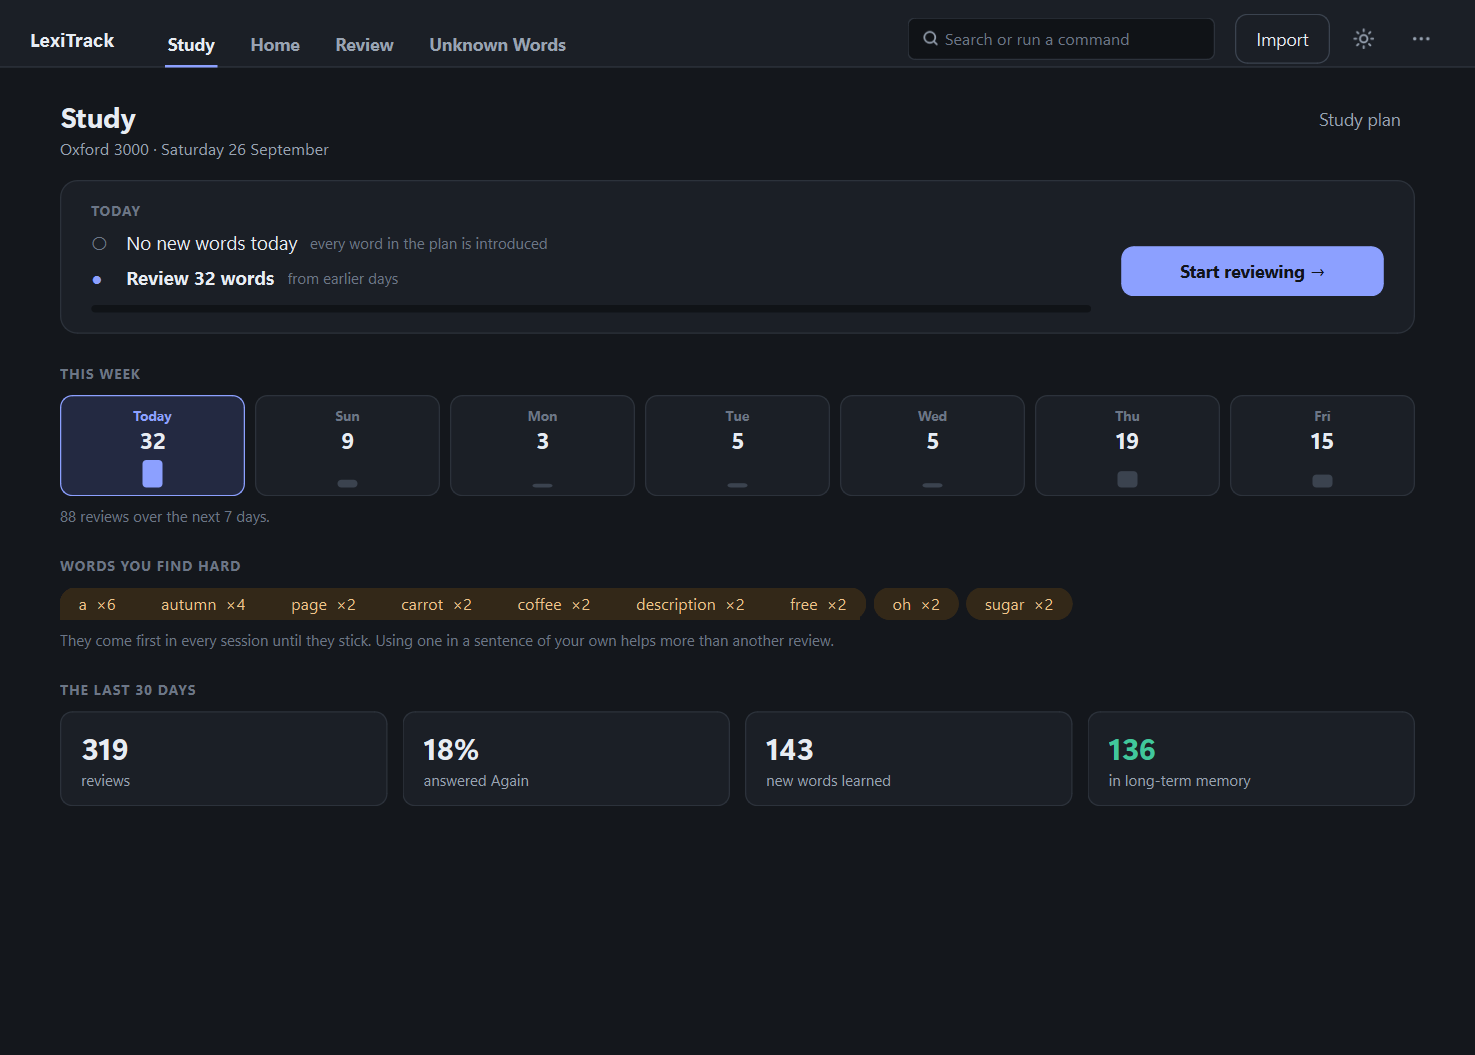
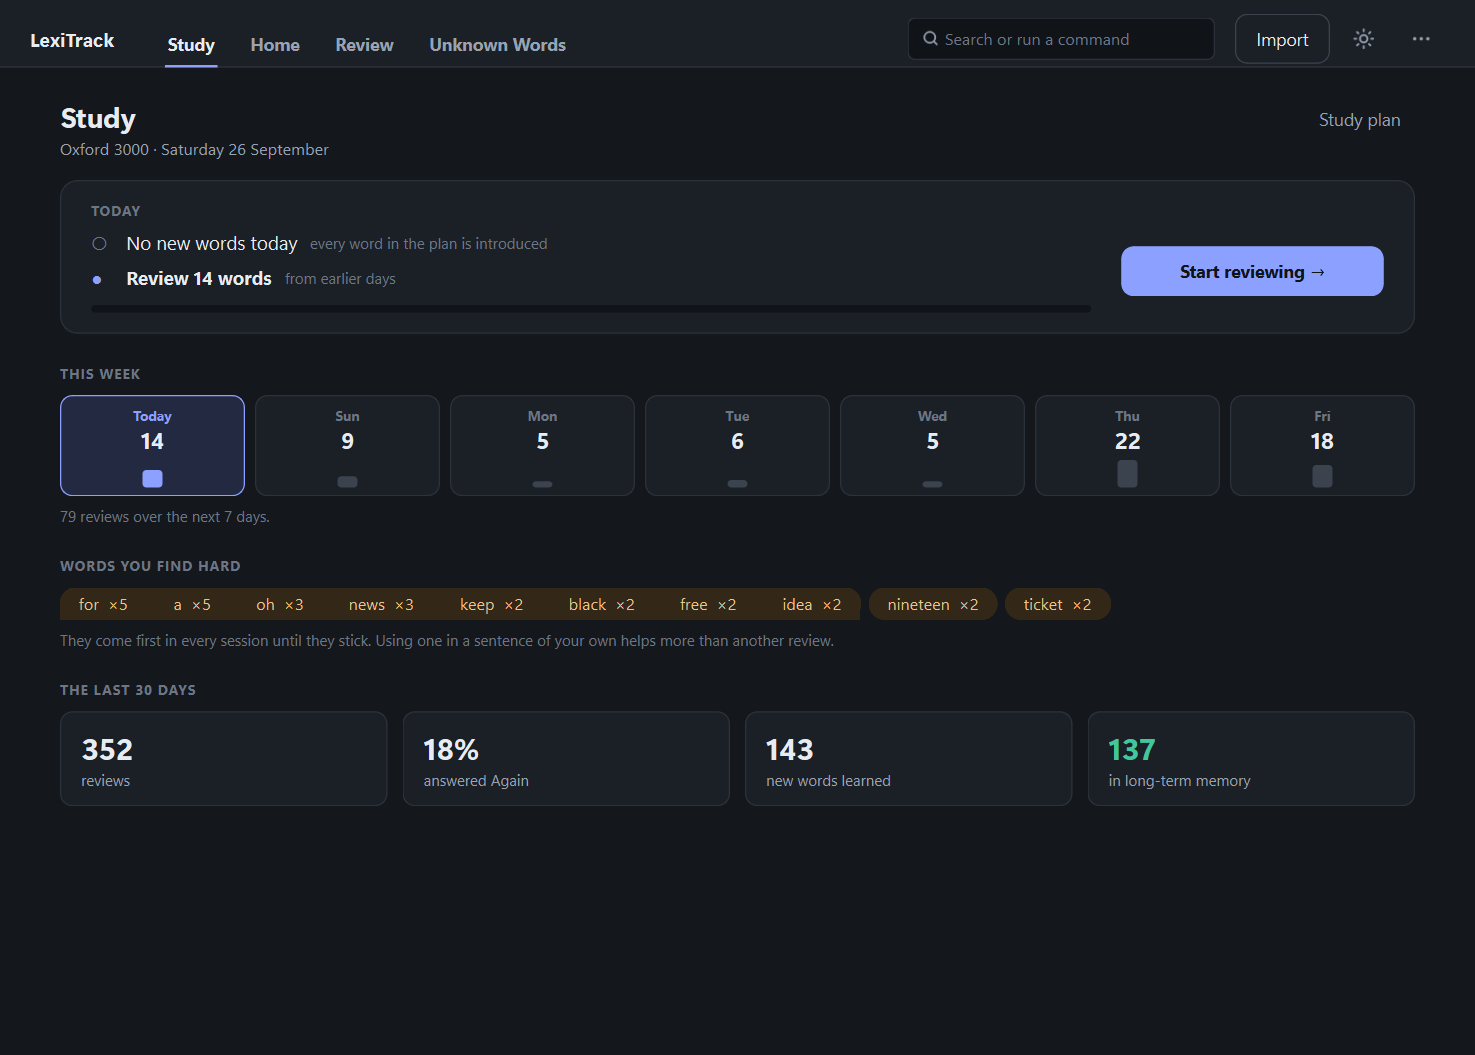
docs: screenshots with the default 25 new words a day

diff --git a/tools/screenshots.py b/tools/screenshots.py
@@ -178,7 +178,7 @@ def study_screens(app, window, engine, clock, list_id, theme, grab) -> None:
     """Study, a review card, the plan window and Settings, from a week of use."""
     engine.create_plan("Oxford 3000", list_ids=[list_id])
     engine.save_settings(
-        {Setting.NEW_WORDS_PER_DAY: 20, Setting.LEECH_CONSECUTIVE: 2}
+        {Setting.NEW_WORDS_PER_DAY: 25, Setting.LEECH_CONSECUTIVE: 2}
     )
     engine.introduce()
     for _ in range(8):
